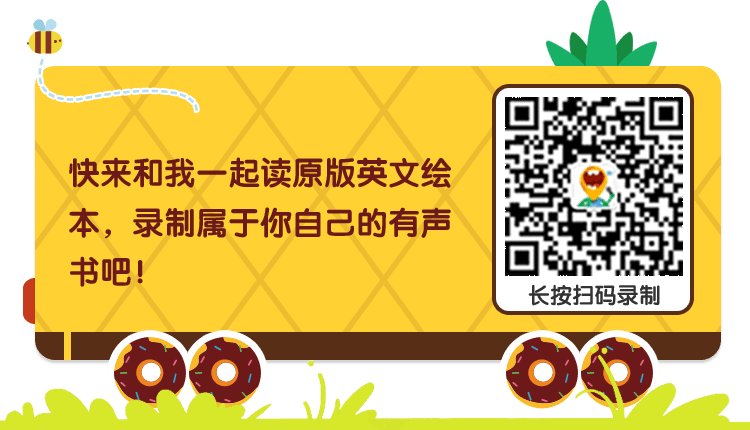
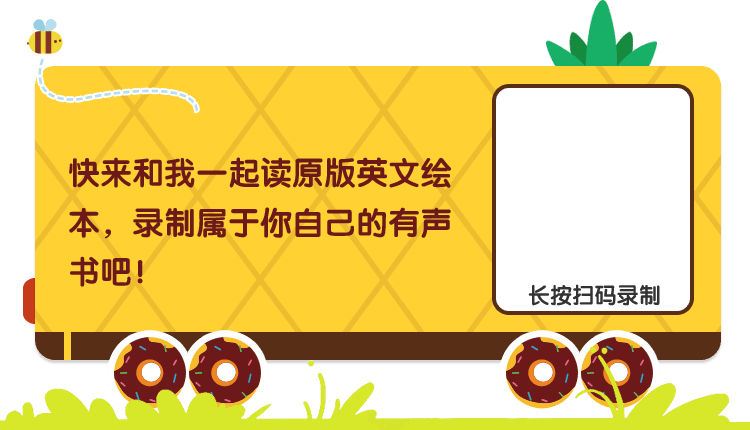
更新ewm

Changed region(s): [[0.6747, 0.2116, 0.92, 0.6651]]

diff --git a/src/components/bookShare.vue b/src/components/bookShare.vue
@@ -25,6 +25,7 @@
 
         section.ewmBox.pos_r
             img(src="../../static/img/shareBottom.png")
+            img.ewmImg(src="https://mp.weixin.qq.com/cgi-bin/showqrcode?ticket=gQEh8TwAAAAAAAAAAS5odHRwOi8vd2VpeGluLnFxLmNvbS9xLzAyVVk5cjlqUnNlNjIxMDAwMHcwM3UAAgQfphtaAwQAAAAA")
             //- p.headImg
             //-     img(:src="headimgurl")
             //- p.headName {{nickname}}
@@ -220,7 +221,7 @@
                         menuList: ['menuItem:share:appMessage','menuItem:share:timeline'] // 要显示的菜单项
                     });
                     this.$wechat.onMenuShareTimeline({
-                        title: '快来听，'+user+'完成了很棒的绘本作品，邀请你和宝贝一起参加', // 分享标题
+                        title: user+'家的宝贝录制了属于自己的英文绘本，口语发音666，快来听听！', // 分享标题
                         link: urlwx, // 分享链接，该链接域名或路径必须与当前页面对应的公众号JS安全域名一致
                         imgUrl: fmImg, // 分享图标
                         success: () => { 

diff --git a/static/scss/book.scss b/static/scss/book.scss
@@ -689,6 +689,14 @@
         width: 100%;
         height: rem(430);
         margin-top: rem(15);
+        .ewmImg{
+            width: rem(178);
+            height: rem(178);
+            position: absolute;
+            top: rem(97);
+            right: rem(67);
+            z-index: 1;
+        }
     }
 }
 .bookAward{
